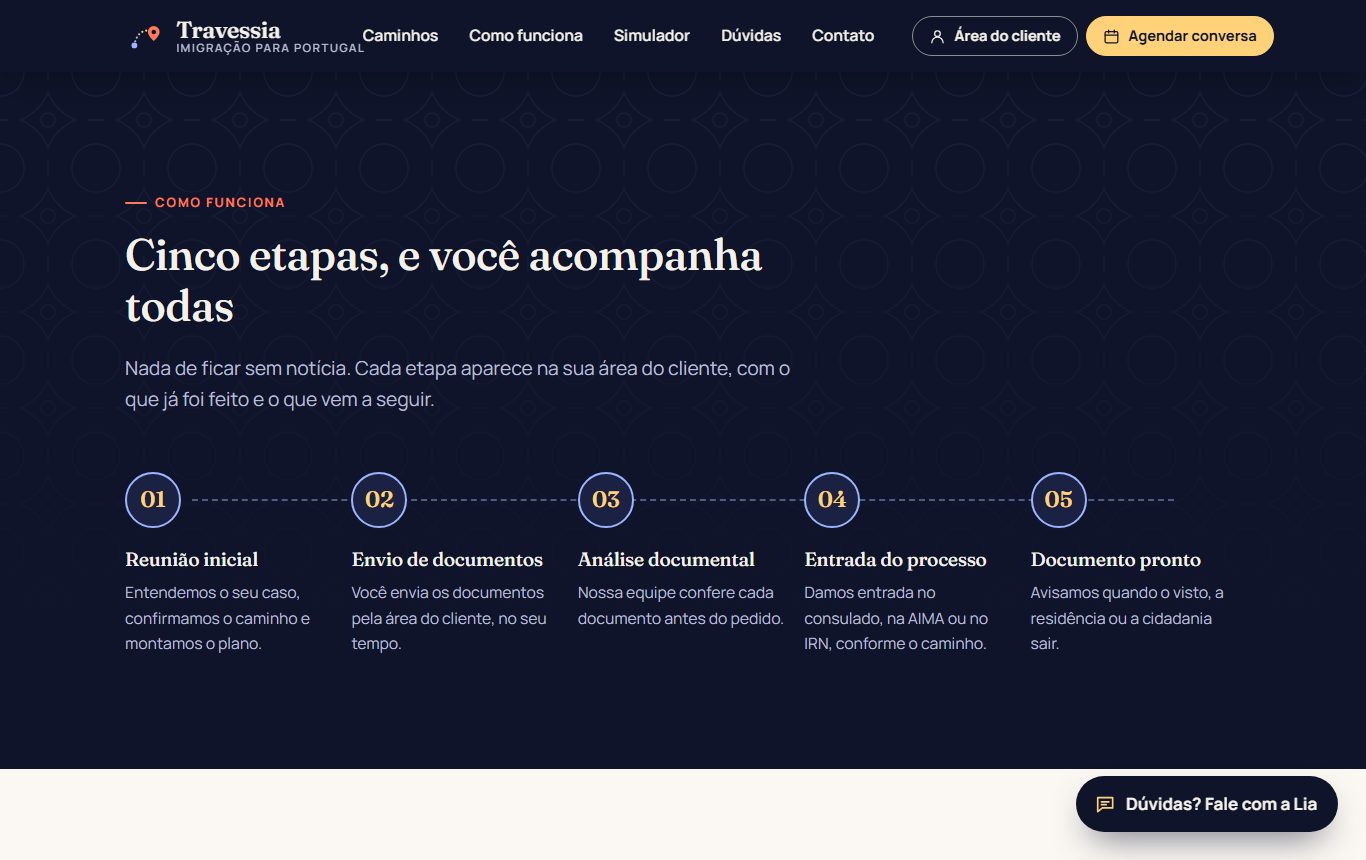
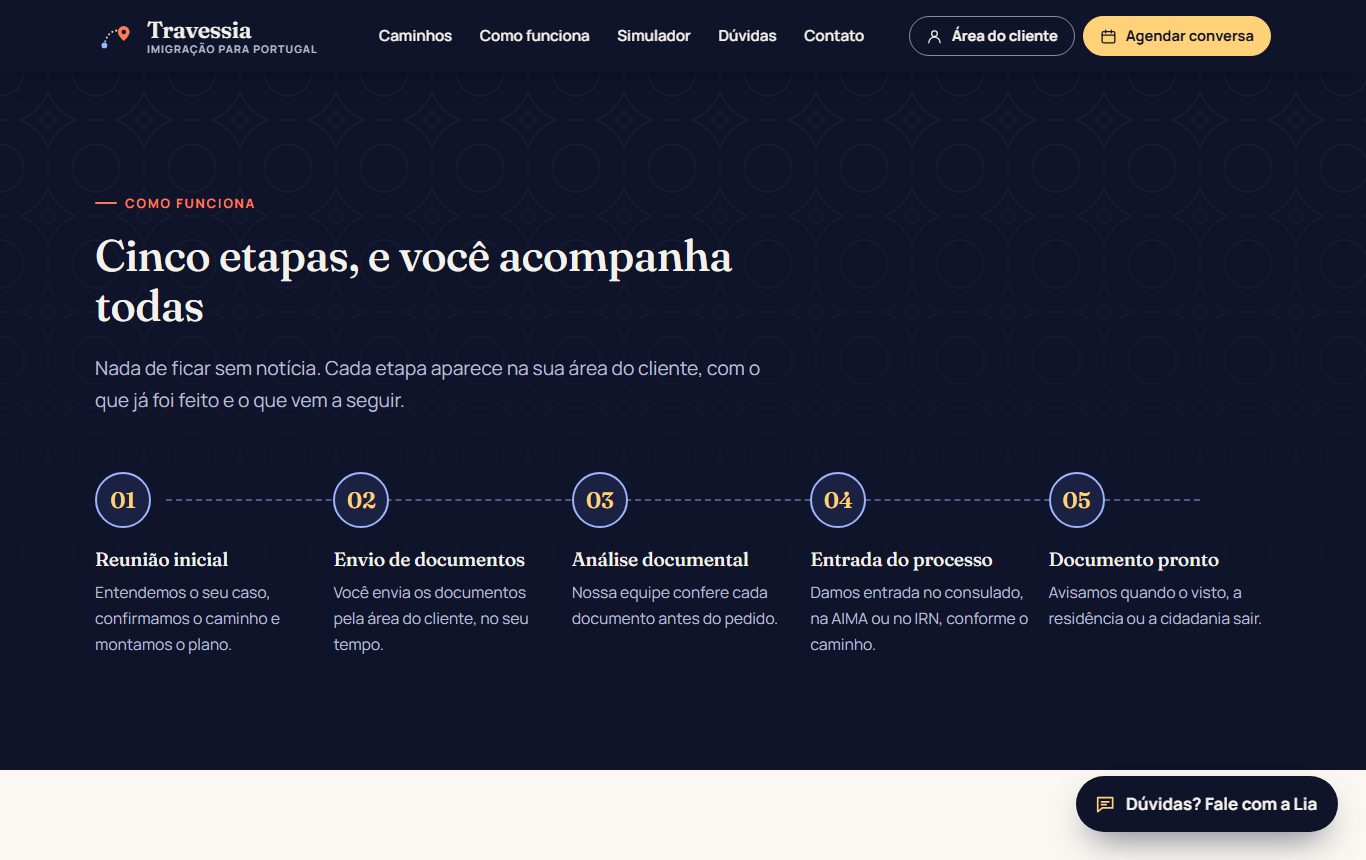
Refina cabeçalho, espaçamentos e área do cliente e renomeia para Travessia
O logo não encolhe mais nem encosta no menu, o menu recolhe abaixo de 1240px
e a página atual ganha um marcador. A jornada da área do cliente deixa de ser
coberta pelo topo escuro, e cartões, números e formulário ganham respiro.

diff --git a/css/site.css b/css/site.css
@@ -59,7 +59,7 @@
 
   --header-h: 72px;
   --ease: cubic-bezier(.2, .8, .2, 1);
-  --container: 1180px;
+  --container: 1240px;
 }
 
 /* -------------------------------------------------------------------- Base */
@@ -279,40 +279,53 @@ em.destaque {
 .site-header__bar {
   display: flex;
   align-items: center;
-  gap: 1.5rem;
+  gap: 1.25rem;
   min-height: var(--header-h);
 }
 
 .brand {
+  flex: none;
   display: inline-flex;
   align-items: center;
-  gap: .7rem;
+  gap: .75rem;
   color: inherit;
   text-decoration: none;
 }
 .brand__mark { width: 40px; height: 40px; }
-.brand__text { display: flex; flex-direction: column; line-height: 1.1; }
+.brand__text { display: flex; flex-direction: column; gap: .2rem; line-height: 1; }
 .brand__name { font-family: var(--font-display); font-size: 1.45rem; font-weight: 600; letter-spacing: -.01em; }
-.brand__sub { white-space: nowrap; font-size: .72rem; font-weight: 600; letter-spacing: .12em; text-transform: uppercase; color: var(--on-ink-muted); }
+.brand__sub { white-space: nowrap; font-size: .66rem; font-weight: 700; letter-spacing: .1em; text-transform: uppercase; color: var(--on-ink-muted); }
 
-.nav { margin-left: auto; }
-.nav__list { display: flex; align-items: center; gap: .25rem; margin: 0; padding: 0; list-style: none; }
+.nav { margin-left: auto; padding-left: 1.5rem; }
+.nav__list { display: flex; align-items: center; gap: .125rem; margin: 0; padding: 0; list-style: none; }
 .nav__link {
   display: inline-flex;
   align-items: center;
   min-height: 44px;
-  padding: .4rem .85rem;
+  position: relative;
+  padding: .4rem .8rem;
   border-radius: 999px;
   color: var(--on-ink);
   font-weight: 600;
-  font-size: .98rem;
+  font-size: .95rem;
   white-space: nowrap;
   text-decoration: none;
 }
 .nav__link:hover { background: rgb(255 255 255 / .08); }
 .nav__link[aria-current="page"] { color: var(--sol); }
+.nav__link[aria-current="page"]::after {
+  content: "";
+  position: absolute;
+  left: 50%;
+  bottom: 4px;
+  width: 5px;
+  height: 5px;
+  border-radius: 50%;
+  background: currentColor;
+  transform: translateX(-50%);
+}
 
-.site-header__cta { display: flex; gap: .5rem; align-items: center; }
+.site-header__cta { flex: none; display: flex; gap: .5rem; align-items: center; margin-left: .75rem; }
 
 .nav-toggle {
   display: none;
@@ -323,8 +336,9 @@ em.destaque {
   --btn-fg: var(--on-ink);
 }
 
-@media (max-width: 1119.98px) {
+@media (max-width: 1239.98px) {
   .nav-toggle { display: inline-flex; margin-left: 0; }
+  .nav__link[aria-current="page"]::after { left: auto; right: 1rem; top: 50%; bottom: auto; transform: translateY(-50%); width: 7px; height: 7px; }
   .site-header__cta { margin-left: auto; }
   .site-header__cta .btn--outline-ink { display: none; }
   .nav {
@@ -341,7 +355,7 @@ em.destaque {
   .nav__link { width: 100%; padding: .75rem 1rem; font-size: 1.05rem; border-radius: var(--radius-sm); }
   .nav__list .nav__cta-mobile { display: block; margin-top: .75rem; }
 }
-@media (min-width: 1120px) {
+@media (min-width: 1240px) {
   .nav__cta-mobile { display: none; }
 }
 @media (max-width: 479.98px) {
@@ -509,7 +523,7 @@ em.destaque {
 }
 .stat {
   position: relative;
-  padding: 1.5rem;
+  padding: 1.5rem 3rem 1.5rem 1.5rem;
   border: 1.5px dashed var(--border-strong);
   border-radius: var(--radius);
   background: var(--surface);
@@ -517,10 +531,11 @@ em.destaque {
 .stat__value {
   display: block;
   font-family: var(--font-display);
-  font-size: clamp(2.2rem, 4vw, 2.8rem);
+  font-size: clamp(2rem, 3.2vw, 2.5rem);
   font-weight: 600;
   line-height: 1;
   color: var(--azul);
+  white-space: nowrap;
   font-variant-numeric: tabular-nums;
 }
 .stat__label { display: block; margin-top: .6rem; color: var(--text-muted); font-weight: 600; }
@@ -729,7 +744,7 @@ em.destaque {
   box-shadow: var(--shadow);
 }
 
-.form-grid { display: grid; grid-template-columns: repeat(2, minmax(0, 1fr)); gap: 1.25rem; }
+.form-grid { display: grid; grid-template-columns: repeat(2, minmax(0, 1fr)); gap: 1.25rem; align-items: end; }
 .form-grid .span-2 { grid-column: 1 / -1; }
 @media (max-width: 599.98px) { .form-grid { grid-template-columns: 1fr; } }
 
@@ -874,6 +889,7 @@ em.destaque {
 .site-footer li { display: flex; gap: .6rem; align-items: flex-start; }
 .site-footer li .icon { margin-top: .25em; color: var(--azul-claro); }
 .site-footer p { color: var(--on-ink-muted); }
+.site-footer__about { margin: 1.25rem 0; max-width: 34ch; }
 .site-footer__bottom {
   display: flex;
   flex-wrap: wrap;
@@ -1289,33 +1305,33 @@ em.destaque {
 .divider::before, .divider::after { content: ""; flex: 1; border-top: 1px solid var(--border); }
 
 /* ------------------------------------------------------------ Portal */
-.portal-hero { padding-block: 2.5rem 6.5rem; }
-.portal-hero__top { display: flex; flex-wrap: wrap; justify-content: space-between; align-items: flex-end; gap: 1.5rem; }
+.portal-hero { padding-block: clamp(2rem, 5vw, 3rem) 6rem; }
+.portal-hero__top { display: flex; flex-wrap: wrap; justify-content: space-between; align-items: center; gap: 1.5rem; }
 .portal-hero h1 { font-size: clamp(2rem, 4vw, 2.9rem); margin-bottom: .35rem; }
 .portal-hero__meta { display: flex; flex-wrap: wrap; gap: .5rem 1.25rem; margin: 0; padding: 0; list-style: none; color: var(--on-ink-muted); font-size: .95rem; }
 .portal-hero__meta li { display: inline-flex; align-items: center; gap: .4rem; }
 .portal-hero__meta .icon { color: var(--azul-claro); }
 .portal-hero__actions { display: flex; flex-wrap: wrap; gap: .5rem; }
 
-.portal-main { margin-top: -4.5rem; padding-bottom: 5rem; }
+.portal-main { position: relative; z-index: 1; margin-top: -3.5rem; padding-bottom: clamp(3rem, 7vw, 5rem); }
 
 .journey {
-  padding: 1.5rem;
+  padding: clamp(1.25rem, 3vw, 2rem);
   border-radius: var(--radius-lg);
   background: var(--surface);
   border: 1px solid var(--border);
   box-shadow: var(--shadow);
 }
-.journey__head { display: flex; flex-wrap: wrap; justify-content: space-between; align-items: center; gap: .75rem; margin-bottom: 1.25rem; }
+.journey__head { display: flex; flex-wrap: wrap; justify-content: space-between; align-items: center; gap: .75rem; margin-bottom: 1.75rem; }
 .journey__head h2 { font-size: 1.45rem; margin: 0; }
-.journey ol { display: grid; grid-template-columns: repeat(5, minmax(0, 1fr)); gap: .75rem; margin: 0; padding: 0; list-style: none; }
+.journey ol { display: grid; grid-template-columns: repeat(5, minmax(0, 1fr)); gap: 1.25rem; margin: 0; padding: 0; list-style: none; }
 .journey li { position: relative; padding-top: 1.6rem; }
 .journey li::before {
   content: "";
   position: absolute;
   top: 7px;
   left: 0;
-  right: -.75rem;
+  right: -1.25rem;
   height: 4px;
   border-radius: 4px;
   background: var(--paper-2);
@@ -1337,7 +1353,7 @@ em.destaque {
 }
 .journey li.is-done .journey__dot { background: var(--azul); border-color: var(--azul); }
 .journey li.is-current .journey__dot { border-color: var(--azul); box-shadow: 0 0 0 5px rgb(38 67 184 / .18); }
-.journey strong { display: block; font-size: .98rem; }
+.journey strong { display: block; margin-bottom: .2rem; font-size: .98rem; }
 .journey small { display: block; color: var(--text-muted); font-size: .85rem; line-height: 1.45; }
 .journey__state { font-weight: 700; font-size: .8rem; margin-top: .25rem; }
 .journey li.is-current .journey__state { color: var(--azul); }
@@ -1360,7 +1376,7 @@ em.destaque {
 @media (max-width: 1023.98px) { .portal-grid { grid-template-columns: 1fr; } }
 
 .card {
-  padding: 1.5rem;
+  padding: clamp(1.25rem, 3vw, 1.75rem);
   border-radius: var(--radius-lg);
   background: var(--surface);
   border: 1px solid var(--border);
@@ -1404,7 +1420,7 @@ em.destaque {
 .doc__body { min-width: 0; }
 .doc__title { display: flex; flex-wrap: wrap; align-items: center; gap: .35rem .6rem; margin: 0 0 .15rem; font-family: var(--font-sans); font-size: 1rem; font-weight: 800; }
 .doc__desc { margin: 0; font-size: .9rem; color: var(--text-muted); }
-.doc__file { display: flex; align-items: center; gap: .4rem; margin-top: .5rem; font-size: .88rem; font-weight: 600; overflow-wrap: anywhere; }
+.doc__file { display: flex; align-items: flex-start; gap: .4rem; margin-top: .5rem; font-size: .88rem; font-weight: 600; overflow-wrap: anywhere; }
 .doc__reason { margin-top: .6rem; padding: .6rem .8rem; border-radius: 10px; background: var(--danger-100); color: #8f1c13; font-size: .9rem; }
 .doc__actions { display: flex; gap: .4rem; flex-wrap: wrap; justify-content: flex-end; }
 @media (max-width: 599.98px) {

diff --git a/index.html b/index.html
@@ -311,7 +311,7 @@
               <img class="brand__mark" src="img/favicon.svg" alt="" width="40" height="40">
               <span class="brand__text"><span class="brand__name">Travessia</span><span class="brand__sub">Imigração para Portugal</span></span>
             </a>
-            <p class="block">Assessoria de cidadania, vistos e residência em Portugal, do primeiro documento ao desembarque.</p>
+            <p class="site-footer__about">Assessoria de cidadania, vistos e residência em Portugal, do primeiro documento ao desembarque.</p>
             <p class="case-note"><svg class="icon" aria-hidden="true" focusable="false"><use href="img/icons.svg#i-info"/></svg> <span>Case de portfólio. A Travessia é uma marca fictícia, e os contatos e números são de exemplo.</span></p>
           </div>
           <nav aria-labelledby="rodape-navegue">

diff --git a/portal.html b/portal.html
@@ -133,7 +133,7 @@
               <img class="brand__mark" src="img/favicon.svg" alt="" width="40" height="40">
               <span class="brand__text"><span class="brand__name">Travessia</span><span class="brand__sub">Imigração para Portugal</span></span>
             </a>
-            <p class="block">Assessoria de cidadania, vistos e residência em Portugal, do primeiro documento ao desembarque.</p>
+            <p class="site-footer__about">Assessoria de cidadania, vistos e residência em Portugal, do primeiro documento ao desembarque.</p>
             <p class="case-note"><svg class="icon" aria-hidden="true" focusable="false"><use href="img/icons.svg#i-info"/></svg> <span>Case de portfólio. A Travessia é uma marca fictícia, e os contatos e números são de exemplo.</span></p>
           </div>
           <nav aria-labelledby="rodape-navegue">

diff --git a/agendar.html b/agendar.html
@@ -90,7 +90,7 @@
               <img class="brand__mark" src="img/favicon.svg" alt="" width="40" height="40">
               <span class="brand__text"><span class="brand__name">Travessia</span><span class="brand__sub">Imigração para Portugal</span></span>
             </a>
-            <p class="block">Assessoria de cidadania, vistos e residência em Portugal, do primeiro documento ao desembarque.</p>
+            <p class="site-footer__about">Assessoria de cidadania, vistos e residência em Portugal, do primeiro documento ao desembarque.</p>
             <p class="case-note"><svg class="icon" aria-hidden="true" focusable="false"><use href="img/icons.svg#i-info"/></svg> <span>Case de portfólio. A Travessia é uma marca fictícia, e os contatos e números são de exemplo.</span></p>
           </div>
           <nav aria-labelledby="rodape-navegue">

diff --git a/caminho.html b/caminho.html
@@ -89,7 +89,7 @@
               <img class="brand__mark" src="img/favicon.svg" alt="" width="40" height="40">
               <span class="brand__text"><span class="brand__name">Travessia</span><span class="brand__sub">Imigração para Portugal</span></span>
             </a>
-            <p class="block">Assessoria de cidadania, vistos e residência em Portugal, do primeiro documento ao desembarque.</p>
+            <p class="site-footer__about">Assessoria de cidadania, vistos e residência em Portugal, do primeiro documento ao desembarque.</p>
             <p class="case-note"><svg class="icon" aria-hidden="true" focusable="false"><use href="img/icons.svg#i-info"/></svg> <span>Case de portfólio. A Travessia é uma marca fictícia, e os contatos e números são de exemplo.</span></p>
           </div>
           <nav aria-labelledby="rodape-navegue">

diff --git a/entrar.html b/entrar.html
@@ -92,7 +92,7 @@
               <img class="brand__mark" src="img/favicon.svg" alt="" width="40" height="40">
               <span class="brand__text"><span class="brand__name">Travessia</span><span class="brand__sub">Imigração para Portugal</span></span>
             </a>
-            <p class="block">Assessoria de cidadania, vistos e residência em Portugal, do primeiro documento ao desembarque.</p>
+            <p class="site-footer__about">Assessoria de cidadania, vistos e residência em Portugal, do primeiro documento ao desembarque.</p>
             <p class="case-note"><svg class="icon" aria-hidden="true" focusable="false"><use href="img/icons.svg#i-info"/></svg> <span>Case de portfólio. A Travessia é uma marca fictícia, e os contatos e números são de exemplo.</span></p>
           </div>
           <nav aria-labelledby="rodape-navegue">

diff --git a/js/common.js b/js/common.js
@@ -419,7 +419,7 @@
       document.addEventListener('keydown', (ev) => {
         if (ev.key === 'Escape' && header.classList.contains('is-open')) { setMenu(false); botao.focus(); }
       });
-      window.matchMedia('(min-width: 1120px)').addEventListener('change', (mq) => { if (mq.matches) setMenu(false); });
+      window.matchMedia('(min-width: 1240px)').addEventListener('change', (mq) => { if (mq.matches) setMenu(false); });
     }
 
     // Cabeçalho ganha fundo sólido depois que a página rola.

diff --git a/README.md b/README.md
@@ -2,7 +2,7 @@
 
 <img src="img/favicon.svg" alt="" width="72" height="72">
 
-# Imigratech · Travessia
+# Travessia
 
 **Case de UX/UI e front-end: site e área do cliente de uma assessoria de imigração do Brasil para Portugal.**
 
@@ -10,7 +10,7 @@
 ![WCAG 2.2 AA](https://img.shields.io/badge/acessibilidade-WCAG%202.2%20AA-1d7347)
 ![Sem dependências](https://img.shields.io/badge/dependências%20de%20runtime-0-555a6e)
 
-[Ver o protótipo](https://fernandopinhel.github.io/Imigratech/) ·
+[Ver o protótipo](https://fernandopinhel.github.io/Travessia/) ·
 [Como rodar](#como-rodar-localmente) ·
 [O case](#o-case)
 
@@ -244,8 +244,8 @@ ao `file://`, porque a CSP e o sprite de ícones se comportam de forma diferente
 arquivos locais.
 
 ```bash
-git clone https://github.com/fernandopinhel/Imigratech.git
-cd Imigratech
+git clone https://github.com/fernandopinhel/Travessia.git
+cd Travessia
 
 # Opção 1: Python
 python3 -m http.server 8080
@@ -271,7 +271,7 @@ npx htmlhint@1 "*.html"
 O site é publicado direto da branch `main` (**Settings → Pages → Deploy from a branch**,
 pasta `/`). O arquivo `.nojekyll` faz o GitHub servir os arquivos como estão.
 
-Endereço: <https://fernandopinhel.github.io/Imigratech/>
+Endereço: <https://fernandopinhel.github.io/Travessia/>
 
 ---
 

diff --git a/SECURITY.md b/SECURITY.md
@@ -7,7 +7,7 @@ dados pessoais reais.
 ## Reportando uma vulnerabilidade
 
 Se encontrar um problema de segurança, abra um
-[security advisory privado](https://github.com/fernandopinhel/Imigratech/security/advisories/new)
+[security advisory privado](https://github.com/fernandopinhel/Travessia/security/advisories/new)
 em vez de uma issue pública.
 
 ## Medidas adotadas
